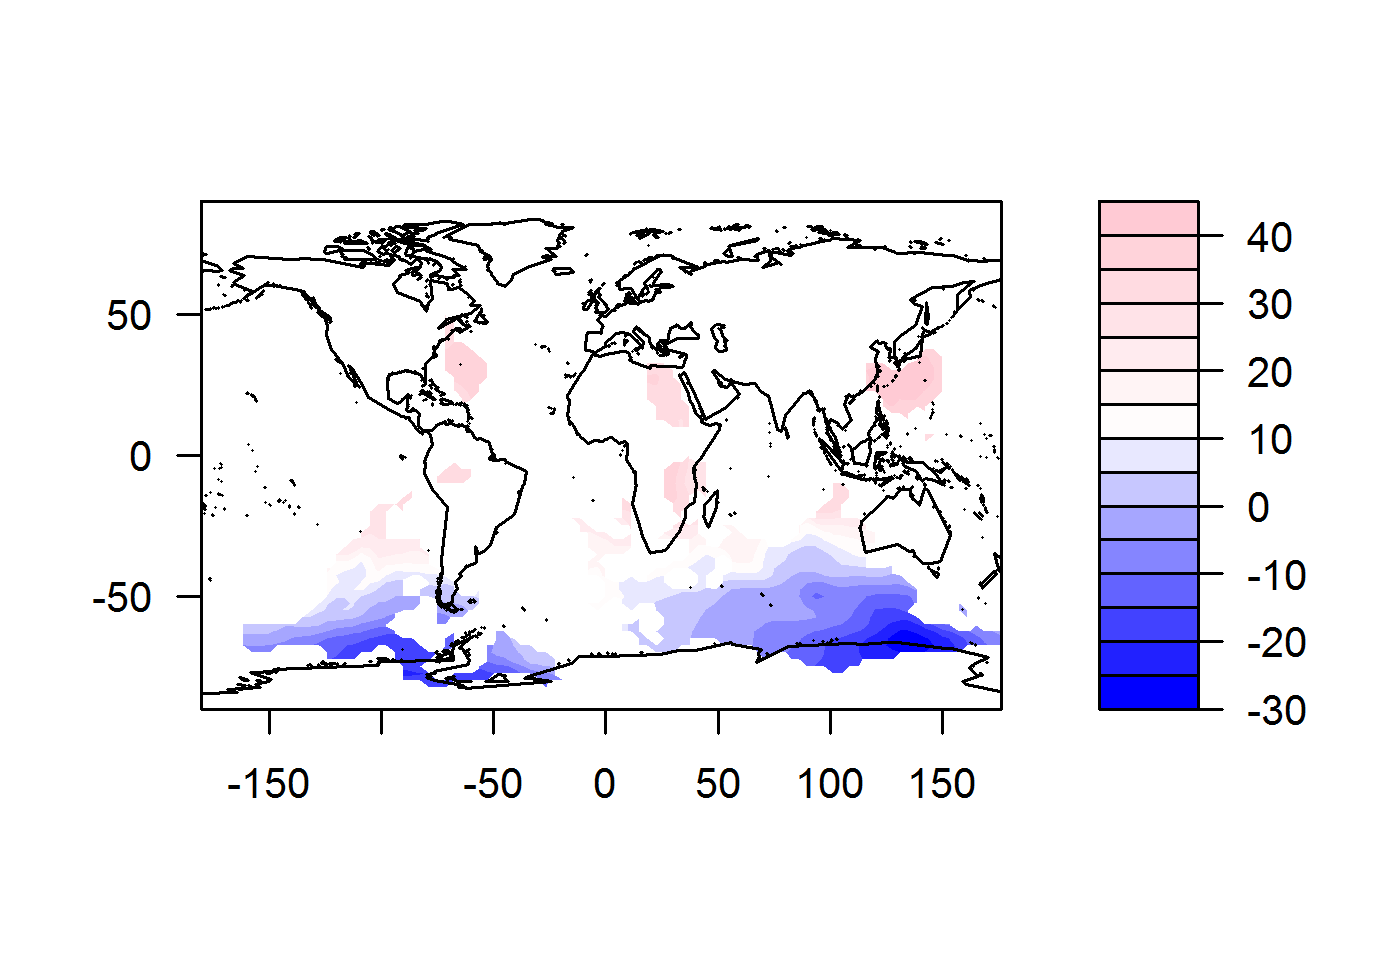
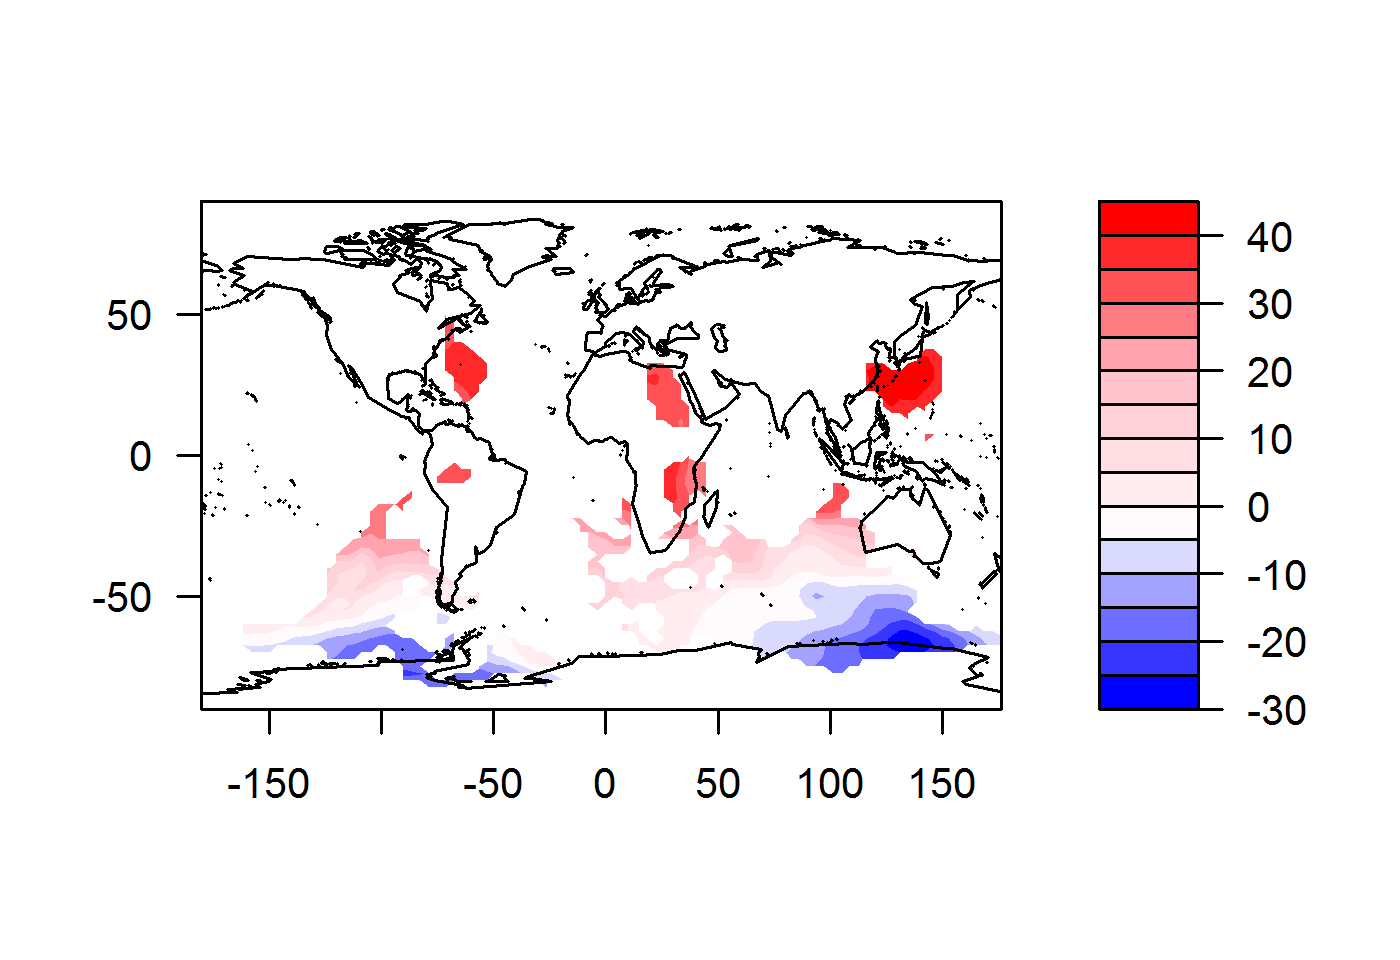
changes made after Aidan's review

diff --git a/_posts/2019-03-06-generating-print-quality-plots.md b/_posts/2019-03-06-generating-print-quality-plots.md
@@ -105,20 +105,36 @@ You may also get an error message saying that the margins are too big. That migh
 1. You have to make them smaller, or
 2. You haven't set your plot dimensions to be sufficiently large, so there isn't enough space to fit the margins.
 
+Because this is so fiddly, it might just be easier to create a PDF file first, either with the Export function as discussed, or with the following script:
+```R
+pdf('heatmap.pdf', pointsize=30, width=40, height=25)
+filled.contour(lons,lats,area,
+               xlim = range(lons), ylim = range(lats),
+               plot.axes = {axis(1);axis(2);
+                 map('world',add=TRUE, wrap=c(-180,180), interior = FALSE)})
+dev.off()
+```
+Then you can convert it to the desired format. On the Mac, this can be done quite easily using Preview. Other tools that do this are [ImageMagick](https://www.imagemagick.org/) or Adobe Acrobat.
+
+(*Note:* I had to play a bit with the `pointsize`, `width` and `height` to get it right.)
+
 ## Changing the Colour Palette
 
 R's default choice of colours is not to everyone's taste and those submitting theses have been known to be asked to change the colour palette.
 
 To set the colour palette for a plot, you just have to create a vector of colour names.
 ```R
-# create a vector with 24 shades ranging between the colours mentioned
-colours = colorRampPalette(c("blue", "white", "pink", "red"))(24)
+# create a vector with 15 shades ranging between the colours mentioned
+colours = colorRampPalette(c("blue", "white", "pink", "red"))(15)
 png('heatmap4.png', pointsize=10, width=1400, height=960, res=300, units="px")filled.contour(lons,lats,area, col=colours,
                xlim = range(lons), ylim = range(lats),
                plot.axes = {axis(1);axis(2);
                  map('world',add=TRUE, wrap=c(-180,180), interior = FALSE)})
 dev.off()
 ```
+
+Note that our colour palette has 15 shades. This needs to correspond to the number of colour levels in the plot. If you have too many shades, not all of them will be used; too few, and the colour palette will cycle (which is not very helpful).
+
 ![Fixed up the palette]({{ "/images/heatmap4.PNG" | absolute_url }})
 
 For a full list of colour names in R, see [here](http://www.stat.columbia.edu/~tzheng/files/Rcolor.pdf).
